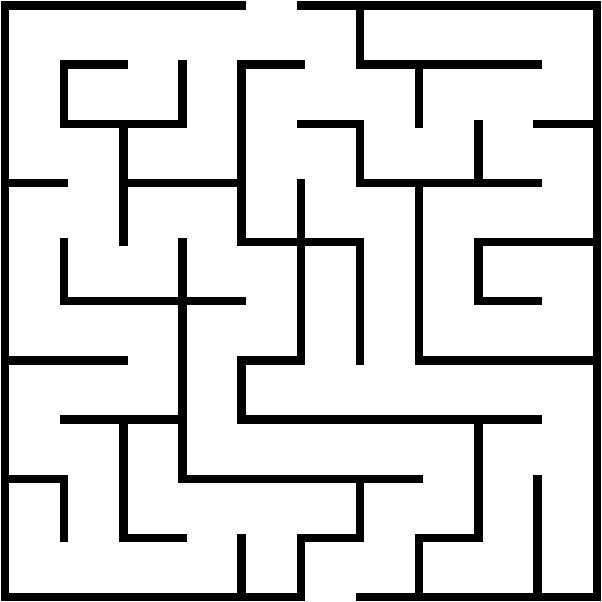
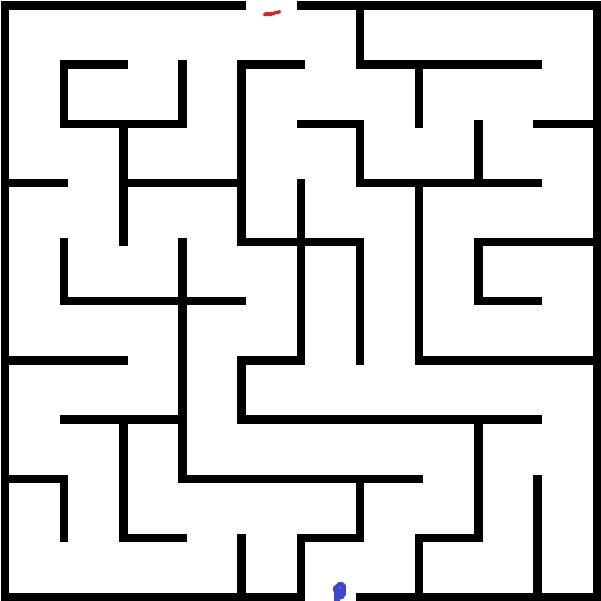
update final

diff --git a/PathFindingUtils.cpp b/PathFindingUtils.cpp
@@ -8,10 +8,10 @@
 #include <algorithm>
 #include <stdlib.h>
 #include "Header.h"
+
 #include <opencv2/opencv.hpp>
 
-
-
+//#define DEBUG
 using namespace cv;
 
 enum TileType
@@ -22,6 +22,7 @@ enum TileType
 	NONE
 
 };
+
 struct Tile
 {	
 	bool CoorValid=false;
@@ -31,6 +32,7 @@ struct Tile
 	int TileY;
 	TileType Type= NONE;
 };
+
 struct ImageMap
 {
 	int width;
@@ -139,10 +141,14 @@ TileType StartOrEndTile(Mat& tile)
 bool FindCircle(Mat& FullImage,int* StartX,int* StartY,int* EndX,int* EndY,int minDst)
 {	
 	std::vector<Vec3f> circles;
-	HoughCircles(FullImage, circles, HOUGH_GRADIENT, 1.25, FullImage.rows/4, 105,33, 5,40);
+	HoughCircles(FullImage, circles, HOUGH_GRADIENT, 1.25, FullImage.rows/4, 105,33, 5,45);
 	int i=0;
 	sort(circles.begin(), circles.end(), [](const Vec3f& lhs, const Vec3f& rhs) {return cvRound(lhs[2]) > cvRound(rhs[2]); });
 	
+	if (circles.size() < 2)
+	{
+		return false;
+	}
 	for (i=0; i < 2; i++)
 	{	
 		
@@ -151,7 +157,7 @@ bool FindCircle(Mat& FullImage,int* StartX,int* StartY,int* EndX,int* EndY,int m
 		int radius = cvRound(circles[i][2]);
 		if (i == 0)
 		{
-			*StartX = center.x+radius;
+			*StartX = center.x +radius;
 			*StartY = center.y;
 		}
 		if (i == 1)
@@ -160,9 +166,9 @@ bool FindCircle(Mat& FullImage,int* StartX,int* StartY,int* EndX,int* EndY,int m
 			*EndY = center.y;
 		}
 
-		circle(FullImage, center, 3, Scalar(0, 255, 0), -1, 8, 0);
+		//circle(FullImage, center, 3, Scalar(0, 255, 0), -1, 8, 0);
 
-		circle(FullImage, center, radius, Scalar(255, 0, 255), 3, 8, 0);
+		circle(FullImage, center, radius-5, Scalar(255, 0, 255), 8, 8, 0);
 
 		
 	}
@@ -314,9 +320,111 @@ void RemoveShadow(Mat* image)
 	* image = result_norm;
 	//return result_norm;
 }
+
+
+bool MazeSolverFunction(std::string& UserInputImage)
+{
+	const char* ImageName = UserInputImage.c_str();//argv[1];
+	Mat image;
+	Mat imageClone;
+	int Paththreshold = 4;
+	image = imread(ImageName, IMREAD_COLOR);
+	{
+		if (!image.data)
+		{
+			printf("No image data \n");
+			return false;
+		}
+		imageClone = image.clone();
+		RemoveShadow(&image);
+
+		Mat gray_image;
+
+		resize(image, gray_image, cv::Size(image.cols * 0.6, image.rows * 0.6), 0, 0, INTER_LINEAR);
+		resize(imageClone, imageClone, cv::Size(image.cols * 0.6, image.rows * 0.6), 0, 0, INTER_LINEAR);
+		cvtColor(gray_image, gray_image, COLOR_BGR2GRAY);
+		int StartX, StartY, EndX, EndY;
+
+		if (!FindCircle(gray_image, &StartX, &StartY, &EndX, &EndY, gray_image.rows / Paththreshold))
+		{
+			std::cout << "Circle Not Found" << std::endl;
+			return false;
+		}
+		gray_image = gray_image > 200;
+#ifdef DEBUG
+		imshow("gray", gray_image);
+		waitKey(0);
+#endif // DEBUG
+
+
+
+		//continue;
+		ImageMap IM = PartitionImage(gray_image, gray_image.cols / Paththreshold, gray_image.rows / Paththreshold, StartX, StartY, EndX, EndY);
+		if (!IM.StartEndTile[0].CoorValid || !IM.StartEndTile[1].CoorValid)
+		{
+			std::cout << " Can't find Start or End point" << std::endl;
+			return false;
+		}
+		//threshold(gray_image, gray_image, 128, 255, THRESH_BINARY);
+#ifdef DEBUG
+		imshow("Binary", gray_image);
+		waitKey(0);
+#endif // DEBUG
+
+		//continue;
+		AStar AS;
+
+		AS.InitAStar(IM.Height, IM.width, IM.StartEndTile[1].TileY, IM.StartEndTile[1].TileX, IM.StartEndTile[0].TileY, IM.StartEndTile[0].TileX);
+
+		std::cout << "Projecting Nodes to image..." << std::endl;
+
+		for (const Tile& tile : IM.ObstacleTile)
+		{
+
+			AS.SetObstacleNodes(tile.TileY, tile.TileX);
+		}
+		auto start = std::chrono::high_resolution_clock::now();
+		bool finished = AS.Solve_AStar();
+		auto stop = std::chrono::high_resolution_clock::now();
+		auto duration = std::chrono::duration_cast<std::chrono::microseconds>(stop - start);
+		std::cout << "Solving Time: " << duration.count() << " microseconds" << std::endl;
+
+		std::string PathFound = finished ? "Path Found!" : "Path not found";
+		std::cout << PathFound << std::endl;
+		AStar::Node* CurrentNode = AS.nodeEnd;
+		Point tempPoint(-1, -1);
+		while (CurrentNode->parent != nullptr)
+		{
+			Point p(CurrentNode->y * Paththreshold, CurrentNode->x * Paththreshold);
+			if (tempPoint.x != -1 && tempPoint.y != -1)
+			{
+				line(imageClone, tempPoint, p, Scalar(0, 0, 255), 2, LINE_AA);
+			}
+			//image.at<Vec3b>(CurrentNode->x * Paththreshold, CurrentNode->y * Paththreshold) = Vec3b(0, 0, 255);
+			CurrentNode = CurrentNode->parent;
+			tempPoint.x = CurrentNode->y * Paththreshold;
+			tempPoint.y = CurrentNode->x * Paththreshold;
+		}
+
+	}
+	UserInputImage.erase(UserInputImage.end() - 4, UserInputImage.end());
+	std::string NewImageString=	UserInputImage+ std::string("_result") + std::string(".jpg");
+	imwrite(NewImageString, imageClone);
+
+	std::cout << "Saved as " <<NewImageString <<std::endl;
+	namedWindow("Display", WINDOW_AUTOSIZE);
+	imshow("Display", imageClone);
+	waitKey(0);
+}
 int main(int argc,char** argv)
 {	
-	
+	std::string arg1;
+	if (argc >= 2)
+	{
+		arg1 = std::string(argv[1]);
+		MazeSolverFunction(arg1);
+		return 0;
+	}
 	std::string UserInput="";
 	while ( true)
 	{	
@@ -343,94 +451,8 @@ int main(int argc,char** argv)
 			std::string UserInputImage;
 
 			std::cin >> UserInputImage;
-			const char* ImageName = UserInputImage.c_str();//argv[1];
-			Mat image;
-			Mat imageClone;
-			int Paththreshold = 4;
-			image = imread(ImageName, IMREAD_COLOR);
-			{
-				if (!image.data)
-				{
-					printf("No image data \n");
-					continue;
-				}
-				imageClone = image.clone();
-				RemoveShadow(&image);
-				
-				Mat gray_image;
-				
-				resize(image, gray_image, cv::Size(image.cols * 1, image.rows * 1), 0, 0, INTER_LINEAR);
-				cvtColor(gray_image, gray_image, COLOR_BGR2GRAY);
-				int StartX, StartY, EndX, EndY;
-				
-				if (!FindCircle(gray_image, &StartX, &StartY, &EndX, &EndY, image.rows / Paththreshold))
-				{
-					std::cout << "Circle Not Found" << std::endl;
-					continue;
-				}
-				gray_image = gray_image > 200;
-#ifdef DEBUG
-				imshow("gray", gray_image);
-				waitKey(0);
-#endif // DEBUG
-				
-				
-				
-				//continue;
-				ImageMap IM = PartitionImage(gray_image, image.cols / Paththreshold, image.rows / Paththreshold,StartX,StartY,EndX,EndY);
-				if (!IM.StartEndTile[0].CoorValid || !IM.StartEndTile[1].CoorValid)
-				{
-					std::cout << " Can't find Start or End point" << std::endl;
-					continue;
-				}
-				//threshold(gray_image, gray_image, 128, 255, THRESH_BINARY);
-#ifdef DEBUG
-				imshow("Binary", gray_image);
-				waitKey(0);
-#endif // DEBUG
-				
-				//continue;
-				AStar AS;
-				
-				AS.InitAStar(IM.Height, IM.width, IM.StartEndTile[1].TileY, IM.StartEndTile[1].TileX, IM.StartEndTile[0].TileY, IM.StartEndTile[0].TileX);
-				
-				std::cout << "Projecting Nodes to image..." << std::endl;
-				
-				for (const Tile& tile : IM.ObstacleTile)
-				{	
-					
-					AS.SetObstacleNodes(tile.TileY, tile.TileX);
-				}
-				auto start = std::chrono::high_resolution_clock::now();
-				bool finished = AS.Solve_AStar();
-				auto stop = std::chrono::high_resolution_clock::now();
-				auto duration = std::chrono::duration_cast<std::chrono::microseconds>(stop - start);
-				std::cout << "Solving Time: " << duration.count()<< " microseconds" << std::endl;
-
-				std::string PathFound = finished ? "Path Found!" : "Path not found";
-				std::cout <<  PathFound << std::endl;
-				AStar::Node* CurrentNode = AS.nodeEnd;
-				Point tempPoint(-1,-1);
-				while (CurrentNode->parent != nullptr)
-				{	
-					Point p(CurrentNode->y * Paththreshold, CurrentNode->x * Paththreshold);
-					if (tempPoint.x != -1 && tempPoint.y != -1)
-					{
-						line(imageClone, tempPoint, p, Scalar(0, 0, 255), 2, LINE_AA);
-					}
-					//image.at<Vec3b>(CurrentNode->x * Paththreshold, CurrentNode->y * Paththreshold) = Vec3b(0, 0, 255);
-					CurrentNode = CurrentNode->parent;
-					tempPoint.x = CurrentNode->y * Paththreshold;
-					tempPoint.y = CurrentNode->x * Paththreshold;
-				}
-
-			}
-			imwrite("result.jpg", imageClone);
-
-			std::cout << "Saved as result.jpg" << std::endl;
-			namedWindow("Display", WINDOW_AUTOSIZE);
-			imshow("Display", imageClone);
-			waitKey(0);
+			MazeSolverFunction(UserInputImage);
+			
 			
 		}
 		else

diff --git a/Header.h b/Header.h
@@ -23,7 +23,7 @@ public:
 
 	virtual ~GG()
 	{	
-		std::cout << "Deleted Window" << std::endl;
+		std::cout << "Destroyed Window" << std::endl;
 		delete this->window;
 	}
 
